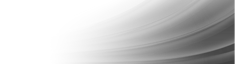
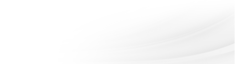
update

diff --git a/app/components/Topic/Topic.js b/app/components/Topic/Topic.js
@@ -20,13 +20,6 @@ export default class Main extends Component {
                 data: this.props.topic.data,
                 id: this.props.topic.id
             },
-            replies: this.props.topic.data ?
-                (
-                    this.props.topic.isReverseReplies ?
-                        [].concat(this.props.topic.data.replies).reverse()
-                        :
-                        this.props.topic.data.replies
-                ) : [],
             replyOrderClass: this.props.topic.replyOrderClass,
             replyOrderHeight: this.props.topic.replyOrderHeight,
             isLoadFail: false
@@ -149,7 +142,6 @@ export default class Main extends Component {
                             data: this.props.topic.data,
                             id: this.props.topic.id
                         },
-                        replies: this.props.topic.data.replies,
                         isLoadFail: false
                     })
                 } else {
@@ -160,13 +152,6 @@ export default class Main extends Component {
                             data: res.data,
                             isReverseReplies: this.props.topic.isReverseReplies
                         }
-                    })
-
-                    this.setState({
-                        replies: this.props.topic.isReverseReplies ?
-                            [].concat(this.props.topic.data.replies).reverse()
-                            :
-                            this.props.topic.data.replies
                     })
                 }
             },
@@ -189,10 +174,6 @@ export default class Main extends Component {
                 }
             })
 
-            this.setState({
-                replies: isReverse ? [].concat(replies).reverse() : replies
-            })
-
             if (this.state.replyOrderHeight) {
                 document.documentElement.scrollTop = document.body.scrollTop = this.getReplyToTopHeight()
             }
@@ -213,23 +194,25 @@ export default class Main extends Component {
                     </Back>
                     <Detail {...this.props} _topicTitle={el => this._topicTitle = el} data={this.props.topic.data}
                             getReplyToTopHeight={this.getReplyToTopHeight} login={this.props.login}
-                            loadTopic={this.loadData}/>
+                            dispatch={this.props.dispatch}/>
                     <Content _topicContent={el => this._topicContent = el} checkLink={this.checkLink}
                              createMarkup={this.createMarkup} data={this.props.topic.data}/>
                     <ReplyHead _topicReplyHead={el => this._topicReplyHead = el}
-                               repliesLen={this.state.replies.length}/>
+                               repliesLen={this.props.topic.data.replies.length}/>
                     <ReplyOrder {...this.props} replyOrderClass={this.state.replyOrderClass}
                                 _topicReplyOrder={el => this._topicReplyOrder = el}
-                                repliesLen={this.state.replies.length}
+                                repliesLen={this.props.topic.data.replies.length}
                                 setOrderTrue={() => {
                                     setRepliesOrder.bind(this)(this.props.topic.data.replies, true)
                                 }}
                                 setOrderFalse={() => {
                                     setRepliesOrder.bind(this)(this.props.topic.data.replies, false)
                                 }}/>
-                    <Replies {...this.props} replies={this.state.replies} replyOrderHeight={this.state.replyOrderHeight}
-                             checkLink={this.checkLink} data={this.props.topic.data} createMarkup={this.createMarkup}
-                             loadTopic={this.loadData}/>
+                    <Replies {...this.props} replies={this.props.topic.data.replies}
+                             replyOrderHeight={this.state.replyOrderHeight}
+                             checkLink={this.checkLink} createMarkup={this.createMarkup}
+                             loginname={this.props.topic.data.author.loginname}
+                             id={this.props.topic.data.id} loadTopic={this.loadData} dispatch={this.props.dispatch}/>
                 </div>
             )
             :

diff --git a/app/components/Topic/Replies.js b/app/components/Topic/Replies.js
@@ -6,6 +6,10 @@ export default class Replies extends Component {
     constructor(props) {
         super(props)
 
+        this.state = {
+            data: this.props.replies
+        }
+
         this.setUps = this.setUps.bind(this)
     }
 
@@ -32,7 +36,24 @@ export default class Replies extends Component {
                     }
                 },
                 success: (res) => {
-                    this.props.loadTopic(this.props.match.params.id, true)
+                    const is_uped = res.action === 'up'
+                    const isReverse = this.props.topic.isReverseReplies
+
+                    for (let i = 0; i < this.state.data.length; i++) {
+                        if (this.state.data[i].id === reply_id) {
+                            this.state.data[i].is_uped = is_uped
+                            is_uped ? this.state.data[i].ups.push('tem_token') : this.state.data[i].ups.pop()
+
+                            this.props.dispatch({
+                                type: 'SET_TOPIC_REPLIES',
+                                payload: !isReverse ? this.state.data : this.state.data.reverse()
+                            })
+
+                            this.setState({
+                                data: !isReverse ? this.state.data : this.state.data.reverse()
+                            })
+                        }
+                    }
                 }
             })
         } else {
@@ -42,23 +63,28 @@ export default class Replies extends Component {
 
     render() {
         const loginData = localStorage.getItem(this.props.login.localStorageKey)
+        let data = [].concat(this.state.data)
         return (
             <div>
                 {
-                    this.props.replies ?
+                    this.state.data ?
                         (
                             <ul className={'topic-reply-list'}
                                 style={{marginTop: this.props.replyOrderHeight}}>
                                 {
-                                    this.props.replies.map((item, index) => {
+                                    (
+                                        !this.props.topic.isReverseReplies ?
+                                            this.state.data :
+                                            data.reverse()
+                                    ).map((item, index) => {
                                         let replyNumClass, replyNumContent;
-                                        if (item.author.loginname === this.props.data.author.loginname) {
+                                        if (item.author.loginname === this.props.loginname) {
                                             replyNumContent = '作者'
                                             replyNumClass = 'topic-reply-num-active'
                                         } else {
                                             replyNumContent = !this.props.topic.isReverseReplies ?
                                                 index + 1 + '楼' :
-                                                this.props.replies.length - index + '楼'
+                                                this.state.data.length - index + '楼'
                                             replyNumClass = 'topic-reply-num'
                                         }
 
@@ -87,7 +113,7 @@ export default class Replies extends Component {
                                                     </div>
                                                     <div className={'topic-reply-content topic-content'}
                                                          onMouseOver={(event) => {
-                                                             this.props.checkLink(event, this.props.data.id)
+                                                             this.props.checkLink(event, this.props.id)
                                                          }}
                                                          dangerouslySetInnerHTML={this.props.createMarkup(item.content)}/>
                                                     <div>

diff --git a/app/components/Topic/Detail.js b/app/components/Topic/Detail.js
@@ -5,6 +5,10 @@ export default class Detail extends Component {
     constructor(props) {
         super(props)
 
+        this.state = {
+            isCollect: this.props.data.is_collect
+        }
+
         this.setCollect = this.setCollect.bind(this)
     }
 
@@ -19,7 +23,7 @@ export default class Detail extends Component {
             });
 
             fetchJSON({
-                url: !this.props.data.is_collect ? '/topic_collect/collect' : '/topic_collect/de_collect',
+                url: !this.state.isCollect ? '/topic_collect/collect' : '/topic_collect/de_collect',
                 req: {
                     method: 'post',
                     body: queryParams,
@@ -28,7 +32,14 @@ export default class Detail extends Component {
                     }
                 },
                 success: (res) => {
-                    this.props.loadTopic(this.props.match.params.id)
+                    this.setState({
+                        isCollect: !this.state.isCollect
+                    })
+
+                    this.props.dispatch({
+                        type: 'SET_TOPIC_IS_COLLECT',
+                        payload: this.state.isCollect
+                    })
                 }
             })
         } else {
@@ -56,7 +67,7 @@ export default class Detail extends Component {
                     {
                         loginData ?
                             <a className={'active fright'}
-                               onClick={this.setCollect}>{this.props.data.is_collect ? '已收藏' : '收藏'}</a> :
+                               onClick={this.setCollect}>{this.state.isCollect ? '已收藏' : '收藏'}</a> :
                             null
                     }
 

diff --git a/app/style/Home.less b/app/style/Home.less
@@ -14,16 +14,26 @@
 }
 
 .top {
-  background: linear-gradient(170deg, @G-color-standard, #51c626, #53CF27, #89e81d);
-  //background: @G-color-standard url("../assets/top-bg.png") no-repeat right bottom;
+  background: @G-gradient-bg;
   height: @T--top--height;
   line-height: @T--top--height;
   padding: 0 20px;
   color: #ffffff;
+  position: relative;
+
+  @bg-z-index: 10;
 
   h2 {
     display: inline;
     font-size: 28px;
+  }
+
+  .top-bg {
+    position: absolute;
+    z-index: @bg-z-index;
+    width: 100%;
+    height: @T--top--height;
+    background: url("../assets/top-bg.png") no-repeat right bottom;
   }
 
   .top-commentary {
@@ -47,7 +57,8 @@
     font-size: 12px;
     margin-top: @login-state-margin-top - 4px;
     border-radius: @G-btn-border-radius;
-
+    position: relative;
+    z-index: @bg-z-index+1;
     .link-color(@G-color-standard)
   }
 
@@ -57,6 +68,8 @@
     height: @height;
     line-height: @height;
     margin-top: @login-state-margin-top;
+    position: relative;
+    z-index: @bg-z-index+1;
 
     img {
       height: @height;

diff --git a/app/components/User/DataList.js b/app/components/User/DataList.js
@@ -147,15 +147,13 @@ export default class Main extends Component {
 
     componentWillUnmount() {
         const scrollTop = document.documentElement.scrollTop || document.body.scrollTop;
-        if (scrollTop) {
-            this.props.dispatch({
-                type: 'SET_USER_SCROLL_TOP',
-                payload: {
-                    value: scrollTop,
-                    currentType: this.currentType
-                }
-            })
-        }
+        this.props.dispatch({
+            type: 'SET_USER_SCROLL_TOP',
+            payload: {
+                value: scrollTop,
+                currentType: this.currentType
+            }
+        })
     }
 
     shouldComponentUpdate(nextState, nextProps) {

diff --git a/app/store/reducers.js b/app/store/reducers.js
@@ -46,6 +46,12 @@ function topic(state = {
         case 'SET_REPLY_COMMENT':
             state.replyComment = action.payload
             break
+        case 'SET_TOPIC_IS_COLLECT':
+            state.data.is_collect = action.payload
+            break
+        case 'SET_TOPIC_REPLIES':
+            state.data.replies = action.payload
+            break
     }
     return state
 }

diff --git a/app/components/Home/Home.js b/app/components/Home/Home.js
@@ -19,6 +19,7 @@ class Head extends Component {
         return (
             <div className={'head'}>
                 <div className={'top clear'} onClick={this.props.toTop}>
+                    <div className={'top-bg'}></div>
                     <h2>
                         <span>CNODE</span>
                         <span className={'top-commentary'}>个人演示版</span>

diff --git a/app/style/Reply.less b/app/style/Reply.less
@@ -14,6 +14,7 @@
   margin-top: -0px;
   background-color: #ffffff;
   padding: 20px;
+  padding-bottom: 25px;
   box-sizing: border-box;
   position: relative;
 }
@@ -56,7 +57,7 @@
   height: 36px;
   border: none;
   border-radius: @G-btn-border-radius;
-  background-color: @G-color-standard;
+  background: @G-gradient-bg;
   color: #ffffff;
   outline: 0;
 }

diff --git a/app/style/global.less b/app/style/global.less
@@ -16,6 +16,7 @@
 @G--common-nav--height: 52px; //底部导航高度 * 程序有应用此数值，改动需同时改动程序配合 *
 @G-form-box-border-color: #e5e5e5; //表单框边框色
 @G-form-box-bg: #f7f7f7; //表单框背景色
+@G-gradient-bg: linear-gradient(170deg, @G-color-standard, #51c626, #53CF27, #8ded1d);
 
 /*
   话题

diff --git a/app/style/Login.less b/app/style/Login.less
@@ -39,7 +39,7 @@
     width: 100%;
     height: @btn-height;
     border: none;
-    background-color: @G-color-standard;
+    background: @G-gradient-bg;
     color: #ffffff;
     border-radius: @G-btn-border-radius;
     margin-bottom: @margin-bottom - 2px;

diff --git a/app/style/Create.less b/app/style/Create.less
@@ -68,8 +68,8 @@
 
 .create-btn {
   .box();
-  background-color: @G-color-standard;
-  border-color: #4eb729;
+  background: @G-gradient-bg;
+  border:none;
   color: #ffffff;
   margin-bottom: 15px;
 }

diff --git a/app/style/Topic.less b/app/style/Topic.less
@@ -14,7 +14,7 @@
   line-height: @height;
   text-align: center;
   border-radius: @G-btn-border-radius;
-  background-color: @G-color-standard;
+  background: @G-gradient-bg;
   color: #ffffff;
 }
 
